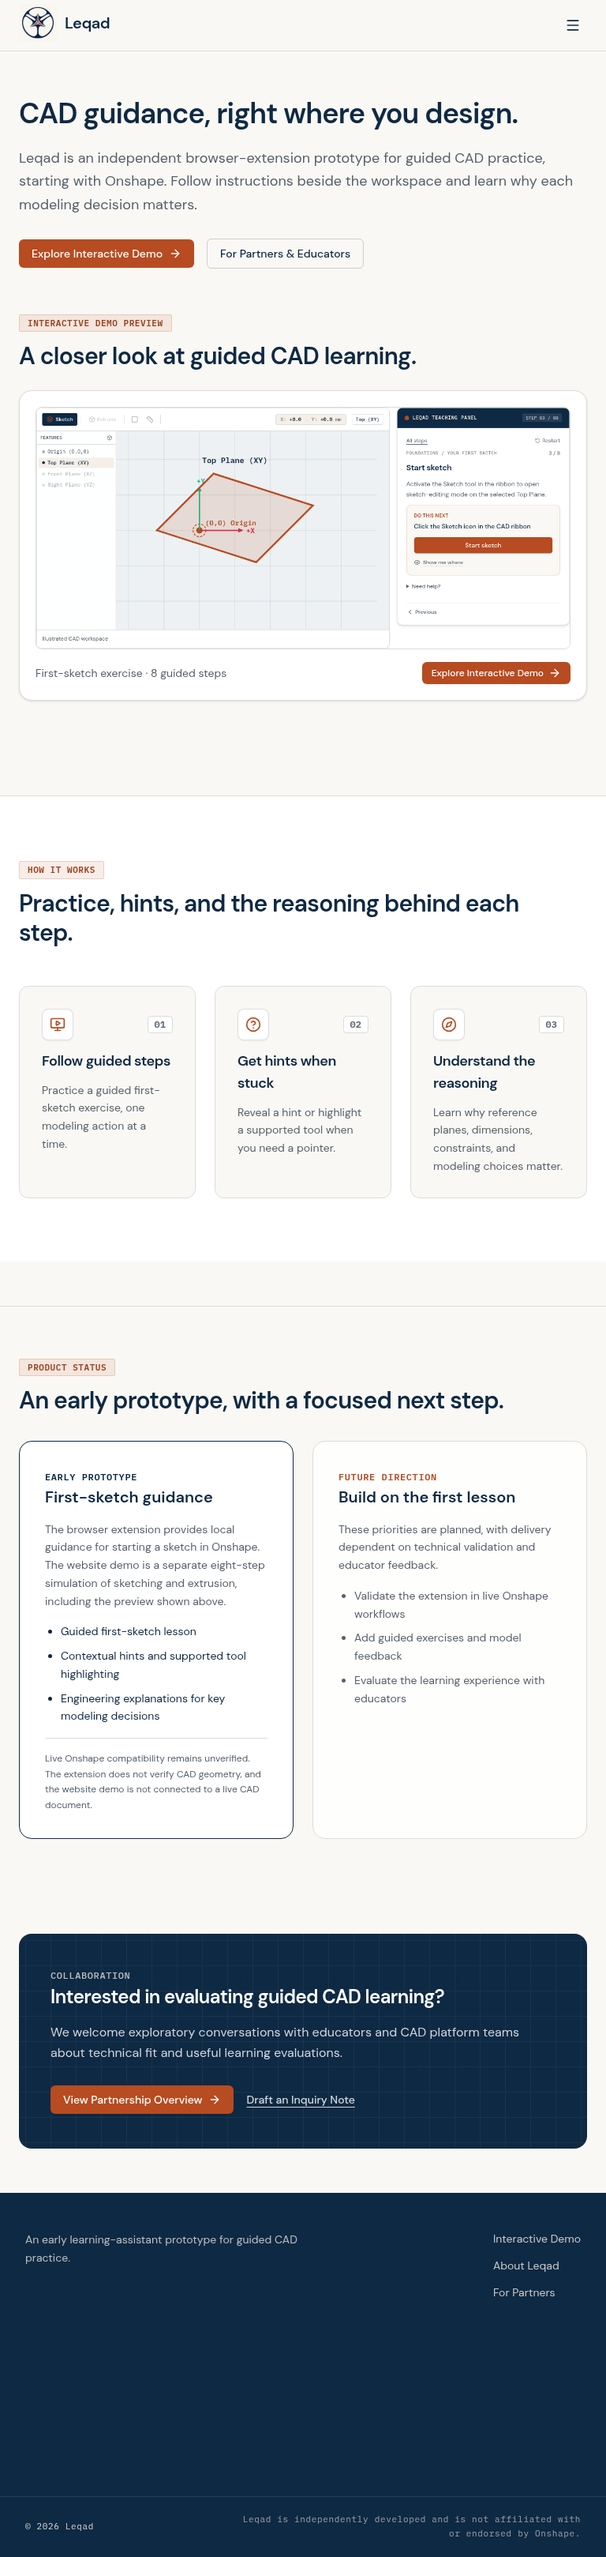
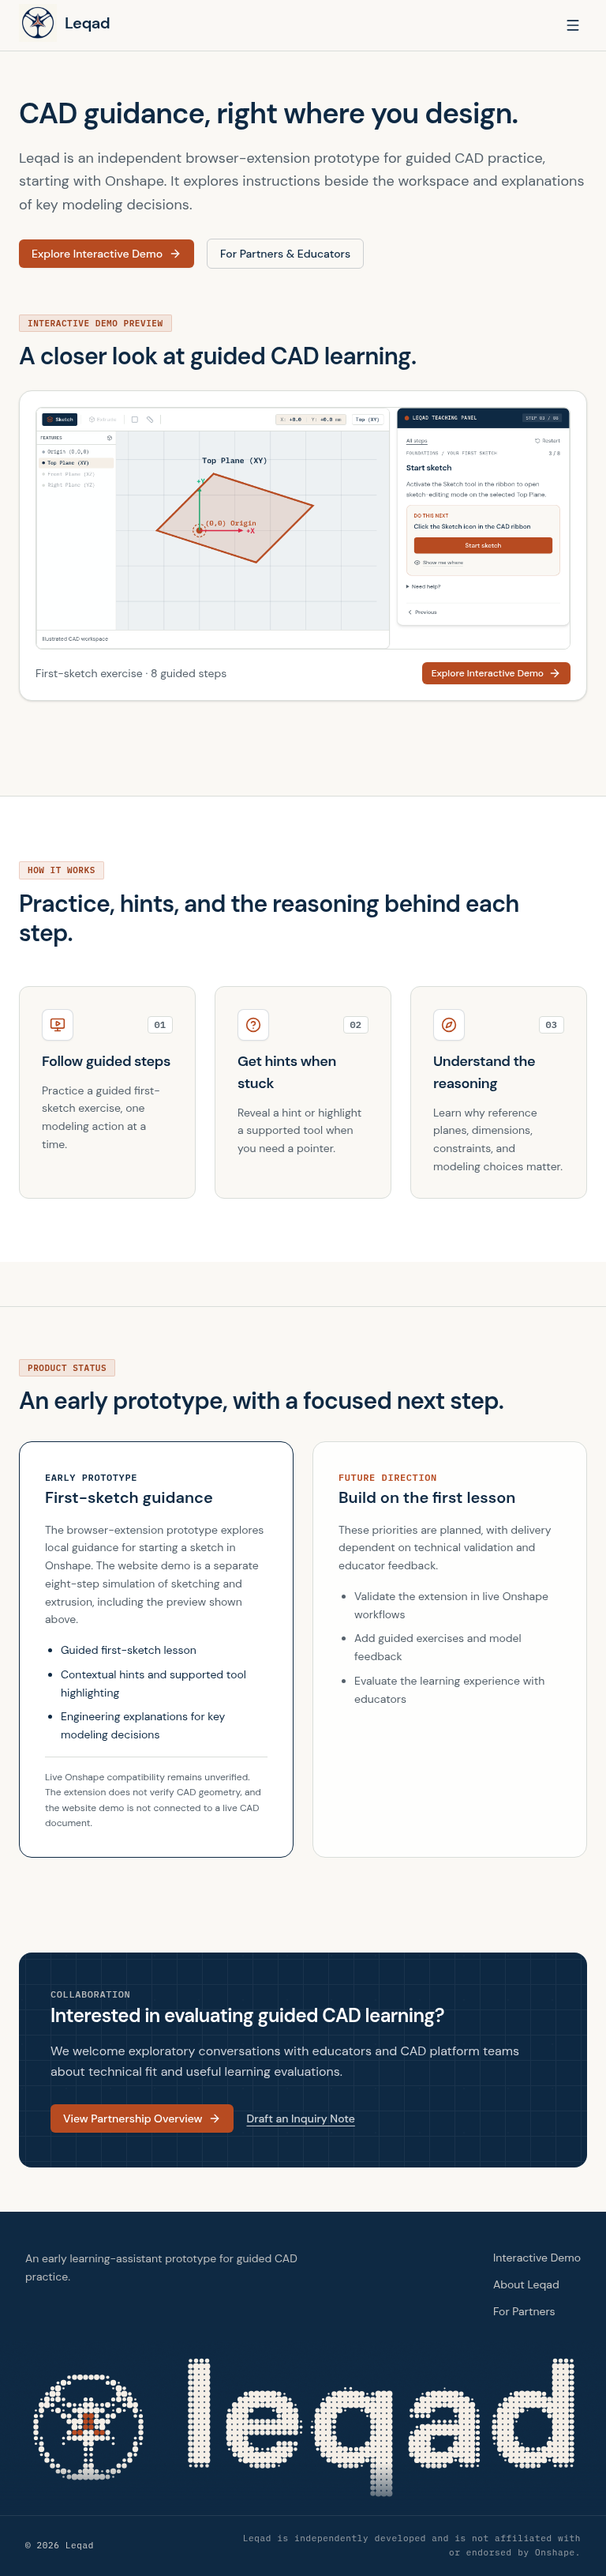
fix review copy for prototype guidance and deferred inquiries

diff --git a/src/components/partners/PartnershipOverview.tsx b/src/components/partners/PartnershipOverview.tsx
@@ -38,7 +38,7 @@ export const PartnershipOverview: React.FC<PartnershipOverviewProps> = ({ onOpen
           <Cpu className="h-5 w-5 text-[#B74B21]" aria-hidden="true" />
           <h3 className="text-base font-semibold text-[#0E2943]">Technical compatibility</h3>
           <p className="text-sm leading-relaxed text-[#55616B]">
-            Validate supported Onshape controls, extension behavior, and the interfaces
+            Evaluate Onshape control recognition, extension-prototype behavior, and the interfaces
             needed for reliable guidance.
           </p>
         </article>
@@ -77,7 +77,7 @@ export const PartnershipOverview: React.FC<PartnershipOverviewProps> = ({ onOpen
         className="pointer-events-none absolute -inset-6 -z-10 bg-[radial-gradient(circle,#ffffff_1px,transparent_1.5px)] bg-[size:56px_56px] opacity-[0.035]" />
       <div className="relative z-10 mx-auto max-w-xl space-y-4">
         <h2 className="text-xl font-semibold tracking-tight text-[#F5EFE7] sm:text-2xl">
-          Contact Leqad
+          Prepare an inquiry
         </h2>
         <p className="text-sm leading-relaxed text-white/80">
           A public contact email is not available yet. You can prepare a note to keep for later; nothing is sent.

diff --git a/src/components/shared/ContactModal.tsx b/src/components/shared/ContactModal.tsx
@@ -255,9 +255,9 @@ Message: ${message.trim() || '[No message entered]'}
 
             {/* Feedback alert when copied */}
             {copied && (
-              <div className="p-2.5 rounded-md bg-emerald-50 text-emerald-800 border border-emerald-200 text-xs flex items-center gap-2 animate-fadeIn">
+              <div role="status" className="p-2.5 rounded-md bg-emerald-50 text-emerald-800 border border-emerald-200 text-xs flex items-center gap-2 animate-fadeIn">
                 <Check className="w-4 h-4 text-emerald-600 flex-shrink-0" />
-                <span>Inquiry note copied to clipboard. You can now paste this into an email to send to the team.</span>
+                <span>Inquiry note copied to clipboard for later use. Nothing has been sent.</span>
               </div>
             )}
 

diff --git a/test/browser/about-partners-contact.spec.ts b/test/browser/about-partners-contact.spec.ts
@@ -43,6 +43,7 @@ test('inquiry topics remain selectable, copy the actual note, and never submit a
     await dialog.getByLabel('Area of Interest').selectOption(topic);
     await dialog.getByLabel('Brief Note or Context').fill('Discuss a first-sketch evaluation.');
     await dialog.getByRole('button', { name: 'Copy Inquiry Note' }).click();
+    await expect(dialog.getByRole('status')).toContainText('Inquiry note copied to clipboard for later use. Nothing has been sent.');
     const note = await page.evaluate(() => navigator.clipboard.readText());
     expect(note).toContain('Topic: ' + topic);
     expect(note).toContain('Discuss a first-sketch evaluation.');

diff --git a/src/components/about/AboutPage.tsx b/src/components/about/AboutPage.tsx
@@ -22,7 +22,7 @@ export const AboutPage: React.FC<AboutPageProps> = ({ onOpenContact }) => {
 
           <div className="space-y-4 text-base sm:text-lg text-[#55616B] leading-relaxed">
             <p>
-              Leqad is an independent browser-extension prototype for guided CAD practice, starting with Onshape. Follow instructions beside the workspace and learn why each modeling decision matters.
+              Leqad is an independent browser-extension prototype for guided CAD practice, starting with Onshape. It explores instructions beside the workspace and explanations of key modeling decisions.
             </p>
           </div>
 

diff --git a/src/components/home/CurrentProductAndVision.tsx b/src/components/home/CurrentProductAndVision.tsx
@@ -16,7 +16,7 @@ export const CurrentProductAndVision: React.FC = () => (
           </span>
           <h3 className="text-xl font-semibold text-[#0E2943]">First-sketch guidance</h3>
           <p className="text-sm leading-relaxed text-[#55616B]">
-            The browser extension provides local guidance for starting a sketch in Onshape.
+            The browser-extension prototype explores local guidance for starting a sketch in Onshape.
             The website demo is a separate eight-step simulation of sketching and extrusion,
             including the preview shown above.
           </p>

diff --git a/docs/content-ux-validation.md b/docs/content-ux-validation.md
@@ -8,7 +8,7 @@ Based on `main` at `c932e3da69647291af61c403687141b6aa093dc5`, including merged 
 - About identifies the static website screenshot as **Interactive Demo Preview**. Product Status explains the distinction between the extension and eight-step website simulation, including the outstanding live-platform validation. Repeated disclaimers and public automated-testing copy were removed.
 - Current capabilities use three concise points; future work is framed once as planned. Marketing no longer suggests a library of completed exercises.
 - Partners focuses on technical compatibility and educational evaluation, with commercial possibilities mentioned briefly. The existing planner remains optional, collapsed by default, and uses a secondary drafting action. Unsupported instructor-workload/outcome claims and repeated contact buttons were removed.
-- The owner explicitly deferred email integration while creating a project address. There is no install link, signup backend, `mailto:` address, or delivery claim. **Draft an Inquiry Note** consistently opens the existing clipboard helper, which clearly states that a public email is not yet available and nothing is sent. Partners has one prominent drafting action. A future working contact action can use **Contact Leqad** once an address is approved.
+- The owner explicitly deferred email integration while creating a project address. There is no install link, signup backend, `mailto:` address, or delivery claim. **Draft an Inquiry Note** consistently opens the existing clipboard helper, which clearly states that a public email is not yet available and nothing is sent. Partners has one prominent drafting action under **Prepare an inquiry**. A future working contact action can use **Contact Leqad** once an address is approved.
 - Demo completion offers **Learn About Leqad** in place of a repeated disclaimer. The short visible **Simulation · Not connected to live CAD** clarification remains; a duplicate canvas notice is shortened. Lesson state, drawing, dimensions, extrusion, cancellation, and restart logic are unchanged.
 - Footer retains the approved symbol/halftone artwork. Redundant text branding is removed, the early-stage description is accurate, and copyright is visually separate from the concise Onshape-independence statement.
 - Accessibility checks identified low contrast in small eyebrow/planner/plane-label text and accessible names that omitted visible toggle labels. The fixes use existing palette shades and label-only changes; no CAD geometry or interaction code changed.
@@ -86,3 +86,14 @@ Set `CHROMIUM_PATH` if Chromium is elsewhere, and `SCREENSHOT_ORIGIN` if the loc
 - Local command results are not GitHub Actions results. Remote CI must be checked on the pull request; API access in this environment has previously been blocked.
 
 The branch was pushed successfully. Creating the draft PR with `gh pr create --draft` failed with `Post "https://api.github.com/graphql": Forbidden`. **No live PR was created, and GitHub Actions results could not be retrieved.** The prepared [PR description](content-ux-pr.md) and [GitHub PR creation form](https://github.com/anandanikait-bot/Leqad-website/pull/new/polish/final-content-ux) are available for review. This access failure does not affect the completed local checks or the pushed changes.
+
+
+## Pre-merge copy review follow-up
+
+The inquiry section now reads **Prepare an inquiry** while the public email remains unavailable. About, Product Status, and the technical-compatibility description explicitly describe prototype exploration/evaluation rather than established live functionality. Product Status continues to state that live Onshape compatibility is unverified.
+
+The clipboard confirmation now reads **Inquiry note copied to clipboard for later use. Nothing has been sent.** It has a screen-reader status announcement, and the existing clipboard test verifies that confirmation along with the actual copied topic/message and absence of submission requests.
+
+The follow-up was checked with TypeScript, all 25 unit tests, production build/prerender, and the 23 affected contact, content/routing, and planner browser tests. The earlier complete 93-test browser run is recorded above; no CAD behavior changed in this follow-up. Responsive screenshots were refreshed at all five widths.
+
+[Desktop copied-note confirmation](screenshots/content-ux/review-dialog-desktop.png) · [Mobile copied-note confirmation](screenshots/content-ux/review-dialog-mobile.png).

diff --git a/docs/content-ux-pr.md b/docs/content-ux-pr.md
@@ -5,7 +5,7 @@ The website repeated prototype caveats, described the simulated preview ambiguou
 - Focus Partners on technical compatibility and educational evaluation. Retain the optional collapsed planner and one prominent drafting action. Simplify footer copy while preserving the approved halftone artwork.
 - Add a useful About link after demo completion. Fix small-text contrast and visible-label/accessibility-name mismatches without changing CAD geometry, lesson logic, dependencies, or scrolling behavior.
 
-**Evidence and deliberate deferrals:** No authentic extension screenshot was found. Extension source at `4554add` confirms that Onshape is the implementation target; live Onshape compatibility remains unverified and is disclosed in Product Status. No public installation/signup service or approved email was found. The owner explicitly deferred email integration while creating an address. Contact currently means an honest clipboard draft helper, with no message delivery; no email address, biography, privacy page, or outcome claims were invented.
+**Evidence and deliberate deferrals:** No authentic extension screenshot was found. Extension source at `4554add` confirms that Onshape is the implementation target; live Onshape compatibility remains unverified and is disclosed in Product Status. No public installation/signup service or approved email was found. The owner explicitly deferred email integration while creating an address. The **Prepare an inquiry** section uses an honest clipboard draft helper, with no message delivery; no email address, biography, privacy page, or outcome claims were invented.
 
 **Validation:** TypeScript, 25 unit tests, production build/prerender, and all 93 Playwright tests pass locally. The browser suite covers direct routes/refreshes, the complete eight-step demo, touch drawing, dimension editing, extrusion, cancellation, restart, and reduced motion. An additional axe-core/keyboard audit reports 0 detected violations across 35 route/state/width checks. Automated contrast items requiring manual review are retained in the raw report. Remote GitHub Actions results have not been verified; these are local results. Production hosting was not tested or deployed.
 
@@ -20,3 +20,6 @@ The website repeated prototype caveats, described the simulated preview ambiguou
 [Demo completion](https://github.com/anandanikait-bot/Leqad-website/blob/polish/final-content-ux/docs/screenshots/demo/09-confirmed-plate-mobile.png) · [Fresh sketch-to-extrude transition recording](https://github.com/anandanikait-bot/Leqad-website/blob/polish/final-content-ux/docs/screenshots/demo/sketch-to-extrude.mp4)
 
 Draft for owner review. Do not merge or deploy automatically.
+
+
+Review follow-up: qualify extension guidance as prototype exploration, retain the explicit unverified-live-compatibility statement, rename the inquiry section, and make the copy-success message refer only to later use. TypeScript, 25 unit tests, build/prerender, and 23 affected browser tests pass; screenshots at five widths are refreshed.
